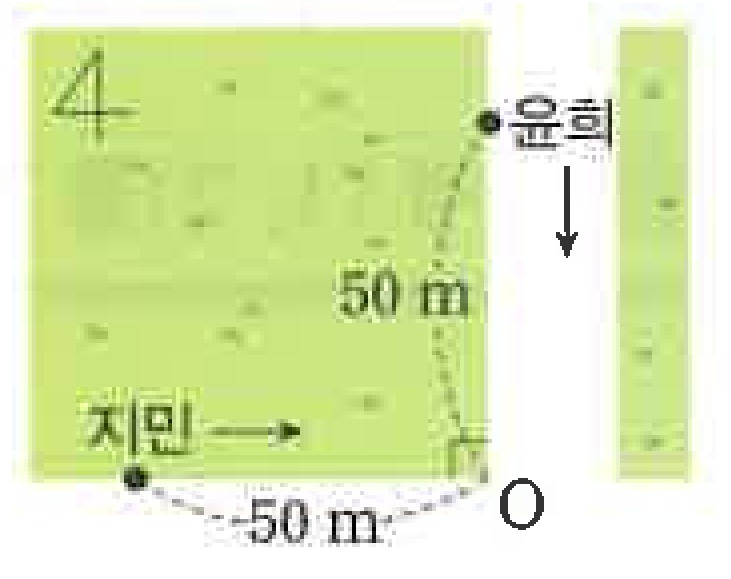
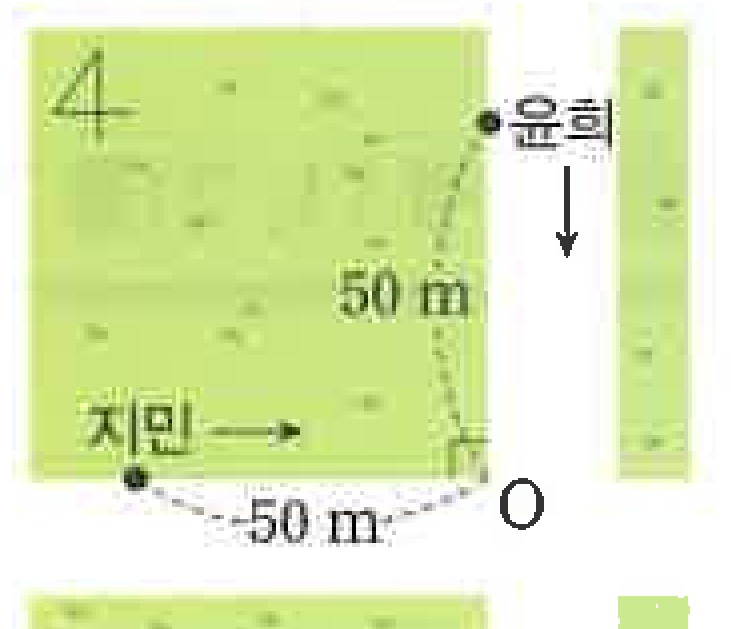
LaTeX 오답은행: 문항 번호 = 책 번호, --export 등록용 조판본 패키지, fig-19-17 라벨 원문 자리, 21-10 크롭 아래 띠 포함
- build.mjs: dmproblemcount 를 id 뒤 번호로 맞춤(book·review·export 동일), trimToInk, --export → output/problem-bank/<책>-latex(조판본 PNG 200dpi + 원본 manifest·정답·해설 이어받기), render-pages.mjs
- 오답지 인쇄에 조판본을 쓰려면 export 폴더를 교재관리 › 패키지 등록. 난이도 분류 이슈는 기록만(handoff)

Claude-Session: https://claude.ai/code/session_01NCCHwZCZB4xsBVyhYp1k4W

diff --git a/latex-bank/ssen-basic-cm2/book.tex b/latex-bank/ssen-basic-cm2/book.tex
@@ -22,136 +22,136 @@
 \setcounter{dmproblemcount}{0}
 \dmsection{개념 01 두 점 사이의 거리}
 \dmpassage{다음 두 점 사이의 거리를 구하시오.}
-\dmpnum{8-01}{\input{items/8-01}}\vspace{4mm}
-\dmpnum{8-02}{\input{items/8-02}}\vspace{4mm}
-\dmpnum{8-03}{\input{items/8-03}}\vspace{4mm}
-\dmpnum{8-04}{\input{items/8-04}}\vspace{4mm}
-\dmpnum{8-05}{\input{items/8-05}}\vspace{4mm}
-\dmpnum{8-06}{\input{items/8-06}}\vspace{4mm}
-\dmpnum{8-07}{\input{items/8-07}}\vspace{4mm}
-\dmpnum{8-08}{\input{items/8-08}}\vspace{4mm}
-\dmpnum{8-09}{\input{items/8-09}}\vspace{4mm}
-\dmpnum{8-10}{\input{items/8-10}}\vspace{4mm}
+\setcounter{dmproblemcount}{0}\dmpnum{8-01}{\input{items/8-01}}\vspace{4mm}
+\setcounter{dmproblemcount}{1}\dmpnum{8-02}{\input{items/8-02}}\vspace{4mm}
+\setcounter{dmproblemcount}{2}\dmpnum{8-03}{\input{items/8-03}}\vspace{4mm}
+\setcounter{dmproblemcount}{3}\dmpnum{8-04}{\input{items/8-04}}\vspace{4mm}
+\setcounter{dmproblemcount}{4}\dmpnum{8-05}{\input{items/8-05}}\vspace{4mm}
+\setcounter{dmproblemcount}{5}\dmpnum{8-06}{\input{items/8-06}}\vspace{4mm}
+\setcounter{dmproblemcount}{6}\dmpnum{8-07}{\input{items/8-07}}\vspace{4mm}
+\setcounter{dmproblemcount}{7}\dmpnum{8-08}{\input{items/8-08}}\vspace{4mm}
+\setcounter{dmproblemcount}{8}\dmpnum{8-09}{\input{items/8-09}}\vspace{4mm}
+\setcounter{dmproblemcount}{9}\dmpnum{8-10}{\input{items/8-10}}\vspace{4mm}
 \dmpassage{두 점~$\pt{A}$, $\pt{B}$의 좌표와 선분~$\pt{AB}$의 길이가 다음과 같을 때, 실수 $a$의 값을 모두 구하시오.}
-\dmpnum{9-11}{\input{items/9-11}}\vspace{4mm}
-\dmpnum{9-12}{\input{items/9-12}}\vspace{4mm}
-\dmpnum{9-13}{\input{items/9-13}}\vspace{4mm}
-\dmpnum{9-14}{\input{items/9-14}}\vspace{4mm}
-\dmpnum{9-15}{\input{items/9-15}}\vspace{4mm}
-\dmpnum{9-16}{\input{items/9-16}}\vspace{4mm}
-\dmpnum{9-17}{\input{items/9-17}}\vspace{4mm}
+\setcounter{dmproblemcount}{10}\dmpnum{9-11}{\input{items/9-11}}\vspace{4mm}
+\setcounter{dmproblemcount}{11}\dmpnum{9-12}{\input{items/9-12}}\vspace{4mm}
+\setcounter{dmproblemcount}{12}\dmpnum{9-13}{\input{items/9-13}}\vspace{4mm}
+\setcounter{dmproblemcount}{13}\dmpnum{9-14}{\input{items/9-14}}\vspace{4mm}
+\setcounter{dmproblemcount}{14}\dmpnum{9-15}{\input{items/9-15}}\vspace{4mm}
+\setcounter{dmproblemcount}{15}\dmpnum{9-16}{\input{items/9-16}}\vspace{4mm}
+\setcounter{dmproblemcount}{16}\dmpnum{9-17}{\input{items/9-17}}\vspace{4mm}
 \dmpassage{다음 두 점~$\pt{A}$, $\pt{B}$에서 같은 거리에 있는 $x$축 위의 점의 좌표를 구하시오.}
-\dmpnum{9-18}{\input{items/9-18}}\vspace{4mm}
-\dmpnum{9-19}{\input{items/9-19}}\vspace{4mm}
-\dmpnum{9-20}{\input{items/9-20}}\vspace{4mm}
+\setcounter{dmproblemcount}{17}\dmpnum{9-18}{\input{items/9-18}}\vspace{4mm}
+\setcounter{dmproblemcount}{18}\dmpnum{9-19}{\input{items/9-19}}\vspace{4mm}
+\setcounter{dmproblemcount}{19}\dmpnum{9-20}{\input{items/9-20}}\vspace{4mm}
 \dmpassage{다음 두 점~$\pt{A}$, $\pt{B}$에서 같은 거리에 있는 $y$축 위의 점의 좌표를 구하시오.}
-\dmpnum{9-21}{\input{items/9-21}}\vspace{4mm}
-\dmpnum{9-22}{\input{items/9-22}}\vspace{4mm}
-\dmpnum{9-23}{\input{items/9-23}}\vspace{4mm}
+\setcounter{dmproblemcount}{20}\dmpnum{9-21}{\input{items/9-21}}\vspace{4mm}
+\setcounter{dmproblemcount}{21}\dmpnum{9-22}{\input{items/9-22}}\vspace{4mm}
+\setcounter{dmproblemcount}{22}\dmpnum{9-23}{\input{items/9-23}}\vspace{4mm}
 \dmsection{유형 001 두 점 사이의 거리}
-\dmpnum{10-01}{\input{items/10-01}}\vspace{4mm}
-\dmpnum{10-02}{\input{items/10-02}}\vspace{4mm}
-\dmpnum{10-03}{\input{items/10-03}}\vspace{4mm}
-\dmpnum{10-04}{\input{items/10-04}}\vspace{4mm}
-\dmpnum{10-05}{\input{items/10-05}}\vspace{4mm}
+\setcounter{dmproblemcount}{0}\dmpnum{10-01}{\input{items/10-01}}\vspace{4mm}
+\setcounter{dmproblemcount}{1}\dmpnum{10-02}{\input{items/10-02}}\vspace{4mm}
+\setcounter{dmproblemcount}{2}\dmpnum{10-03}{\input{items/10-03}}\vspace{4mm}
+\setcounter{dmproblemcount}{3}\dmpnum{10-04}{\input{items/10-04}}\vspace{4mm}
+\setcounter{dmproblemcount}{4}\dmpnum{10-05}{\input{items/10-05}}\vspace{4mm}
 \dmsection{유형 002 같은 거리에 있는 점}
-\dmpnum{10-06}{\input{items/10-06}}\vspace{4mm}
-\dmpnum{11-07}{\input{items/11-07}}\vspace{4mm}
-\dmpnum{11-08}{\input{items/11-08}}\vspace{4mm}
-\dmpnum{11-09}{\input{items/11-09}}\vspace{4mm}
-\dmpnum{11-10}{\input{items/11-10}}\vspace{4mm}
-\dmpnum{11-11}{\input{items/11-11}}\vspace{4mm}
+\setcounter{dmproblemcount}{5}\dmpnum{10-06}{\input{items/10-06}}\vspace{4mm}
+\setcounter{dmproblemcount}{6}\dmpnum{11-07}{\input{items/11-07}}\vspace{4mm}
+\setcounter{dmproblemcount}{7}\dmpnum{11-08}{\input{items/11-08}}\vspace{4mm}
+\setcounter{dmproblemcount}{8}\dmpnum{11-09}{\input{items/11-09}}\vspace{4mm}
+\setcounter{dmproblemcount}{9}\dmpnum{11-10}{\input{items/11-10}}\vspace{4mm}
+\setcounter{dmproblemcount}{10}\dmpnum{11-11}{\input{items/11-11}}\vspace{4mm}
 \dmsection{유형 003 두 점 사이의 거리와 삼각형}
-\dmpnum{11-12}{\input{items/11-12}}\vspace{4mm}
-\dmpnum{12-13}{\input{items/12-13}}\vspace{4mm}
-\dmpnum{12-14}{\input{items/12-14}}\vspace{4mm}
-\dmpnum{12-15}{\input{items/12-15}}\vspace{4mm}
+\setcounter{dmproblemcount}{11}\dmpnum{11-12}{\input{items/11-12}}\vspace{4mm}
+\setcounter{dmproblemcount}{12}\dmpnum{12-13}{\input{items/12-13}}\vspace{4mm}
+\setcounter{dmproblemcount}{13}\dmpnum{12-14}{\input{items/12-14}}\vspace{4mm}
+\setcounter{dmproblemcount}{14}\dmpnum{12-15}{\input{items/12-15}}\vspace{4mm}
 \dmsection{유형 004 선분의 길이의 제곱의 합의 최솟값}
-\dmpnum{12-16}{\input{items/12-16}}\vspace{4mm}
-\dmpnum{12-17}{\input{items/12-17}}\vspace{4mm}
-\dmpnum{12-18}{\input{items/12-18}}\vspace{4mm}
+\setcounter{dmproblemcount}{15}\dmpnum{12-16}{\input{items/12-16}}\vspace{4mm}
+\setcounter{dmproblemcount}{16}\dmpnum{12-17}{\input{items/12-17}}\vspace{4mm}
+\setcounter{dmproblemcount}{17}\dmpnum{12-18}{\input{items/12-18}}\vspace{4mm}
 \dmsection{개념 02 수직선 위의 선분의 내분점}
 \dmpassage{다음 수직선 위의 점에 대하여 $\blank$ 안에 알맞은 것을 써넣으시오.}
 \begin{center}\input{figures/fig-numberline-13}\end{center}
-\dmpnum{13-01}{\input{items/13-01}}\vspace{4mm}
-\dmpnum{13-02}{\input{items/13-02}}\vspace{4mm}
-\dmpnum{13-03}{\input{items/13-03}}\vspace{4mm}
-\dmpnum{13-04}{\input{items/13-04}}\vspace{4mm}
+\setcounter{dmproblemcount}{0}\dmpnum{13-01}{\input{items/13-01}}\vspace{4mm}
+\setcounter{dmproblemcount}{1}\dmpnum{13-02}{\input{items/13-02}}\vspace{4mm}
+\setcounter{dmproblemcount}{2}\dmpnum{13-03}{\input{items/13-03}}\vspace{4mm}
+\setcounter{dmproblemcount}{3}\dmpnum{13-04}{\input{items/13-04}}\vspace{4mm}
 \dmpassage{두 점~$\pt{A}$, $\pt{B}$를 잇는 선분~$\pt{AB}$를 주어진 비로 내분하는 점~$\pt{P}$의 좌표를 구하시오.}
-\dmpnum{13-05}{\input{items/13-05}}\vspace{4mm}
-\dmpnum{13-06}{\input{items/13-06}}\vspace{4mm}
-\dmpnum{13-07}{\input{items/13-07}}\vspace{4mm}
-\dmpnum{13-08}{\input{items/13-08}}\vspace{4mm}
-\dmpnum{13-09}{\input{items/13-09}}\vspace{4mm}
+\setcounter{dmproblemcount}{4}\dmpnum{13-05}{\input{items/13-05}}\vspace{4mm}
+\setcounter{dmproblemcount}{5}\dmpnum{13-06}{\input{items/13-06}}\vspace{4mm}
+\setcounter{dmproblemcount}{6}\dmpnum{13-07}{\input{items/13-07}}\vspace{4mm}
+\setcounter{dmproblemcount}{7}\dmpnum{13-08}{\input{items/13-08}}\vspace{4mm}
+\setcounter{dmproblemcount}{8}\dmpnum{13-09}{\input{items/13-09}}\vspace{4mm}
 \dmsection{개념 03 좌표평면 위의 선분의 내분점}
 \dmpassage{두 점~$\pt{A}$, $\pt{B}$를 잇는 선분~$\pt{AB}$를 주어진 비로 내분하는 점~$\pt{P}$의 좌표를 구하시오.}
-\dmpnum{14-10}{\input{items/14-10}}\vspace{4mm}
-\dmpnum{14-11}{\input{items/14-11}}\vspace{4mm}
-\dmpnum{14-12}{\input{items/14-12}}\vspace{4mm}
-\dmpnum{14-13}{\input{items/14-13}}\vspace{4mm}
-\dmpnum{14-14}{\input{items/14-14}}\vspace{4mm}
+\setcounter{dmproblemcount}{9}\dmpnum{14-10}{\input{items/14-10}}\vspace{4mm}
+\setcounter{dmproblemcount}{10}\dmpnum{14-11}{\input{items/14-11}}\vspace{4mm}
+\setcounter{dmproblemcount}{11}\dmpnum{14-12}{\input{items/14-12}}\vspace{4mm}
+\setcounter{dmproblemcount}{12}\dmpnum{14-13}{\input{items/14-13}}\vspace{4mm}
+\setcounter{dmproblemcount}{13}\dmpnum{14-14}{\input{items/14-14}}\vspace{4mm}
 \dmpassage{다음을 만족시키는 $a$, $b$의 값을 구하시오.}
-\dmpnum{14-15}{\input{items/14-15}}\vspace{4mm}
-\dmpnum{14-16}{\input{items/14-16}}\vspace{4mm}
-\dmpnum{14-17}{\input{items/14-17}}\vspace{4mm}
+\setcounter{dmproblemcount}{14}\dmpnum{14-15}{\input{items/14-15}}\vspace{4mm}
+\setcounter{dmproblemcount}{15}\dmpnum{14-16}{\input{items/14-16}}\vspace{4mm}
+\setcounter{dmproblemcount}{16}\dmpnum{14-17}{\input{items/14-17}}\vspace{4mm}
 \dmsection{개념 04 삼각형의 무게중심}
 \dmpassage{다음 세 점~$\pt{A}$, $\pt{B}$, $\pt{C}$를 꼭짓점으로 하는 삼각형~$\pt{ABC}$의 무게중심 $\pt{G}$의 좌표를 구하시오.}
-\dmpnum{15-18}{\input{items/15-18}}\vspace{4mm}
-\dmpnum{15-19}{\input{items/15-19}}\vspace{4mm}
-\dmpnum{15-20}{\input{items/15-20}}\vspace{4mm}
-\dmpnum{15-21}{\input{items/15-21}}\vspace{4mm}
-\dmpnum{15-22}{\input{items/15-22}}\vspace{4mm}
+\setcounter{dmproblemcount}{17}\dmpnum{15-18}{\input{items/15-18}}\vspace{4mm}
+\setcounter{dmproblemcount}{18}\dmpnum{15-19}{\input{items/15-19}}\vspace{4mm}
+\setcounter{dmproblemcount}{19}\dmpnum{15-20}{\input{items/15-20}}\vspace{4mm}
+\setcounter{dmproblemcount}{20}\dmpnum{15-21}{\input{items/15-21}}\vspace{4mm}
+\setcounter{dmproblemcount}{21}\dmpnum{15-22}{\input{items/15-22}}\vspace{4mm}
 \dmpassage{다음 세 점~$\pt{A}$, $\pt{B}$, $\pt{C}$를 꼭짓점으로 하는 삼각형~$\pt{ABC}$의 무게중심이 $\pt{G}$일 때, $a$, $b$의 값을 구하시오.}
-\dmpnum{15-23}{\input{items/15-23}}\vspace{4mm}
-\dmpnum{15-24}{\input{items/15-24}}\vspace{4mm}
-\dmpnum{15-25}{\input{items/15-25}}\vspace{4mm}
+\setcounter{dmproblemcount}{22}\dmpnum{15-23}{\input{items/15-23}}\vspace{4mm}
+\setcounter{dmproblemcount}{23}\dmpnum{15-24}{\input{items/15-24}}\vspace{4mm}
+\setcounter{dmproblemcount}{24}\dmpnum{15-25}{\input{items/15-25}}\vspace{4mm}
 \dmsection{개념 05 중점의 사각형에의 활용}
 \dmpassage{다음 네 점~$\pt{A}$, $\pt{B}$, $\pt{C}$, $\pt{D}$를 꼭짓점으로 하는 사각형~$\pt{ABCD}$가 평행사변형일 때, $a$, $b$의 값을 구하시오.}
-\dmpnum{16-26}{\input{items/16-26}}\vspace{4mm}
-\dmpnum{16-27}{\input{items/16-27}}\vspace{4mm}
-\dmpnum{16-28}{\input{items/16-28}}\vspace{4mm}
+\setcounter{dmproblemcount}{25}\dmpnum{16-26}{\input{items/16-26}}\vspace{4mm}
+\setcounter{dmproblemcount}{26}\dmpnum{16-27}{\input{items/16-27}}\vspace{4mm}
+\setcounter{dmproblemcount}{27}\dmpnum{16-28}{\input{items/16-28}}\vspace{4mm}
 \dmpassage{다음 네 점~$\pt{A}$, $\pt{B}$, $\pt{C}$, $\pt{D}$를 꼭짓점으로 하는 사각형~$\pt{ABCD}$가 마름모일 때, $a$, $b$의 값을 구하시오.}
-\dmpnum{16-29}{\input{items/16-29}}\vspace{4mm}
-\dmpnum{16-30}{\input{items/16-30}}\vspace{4mm}
-\dmpnum{16-31}{\input{items/16-31}}\vspace{4mm}
+\setcounter{dmproblemcount}{28}\dmpnum{16-29}{\input{items/16-29}}\vspace{4mm}
+\setcounter{dmproblemcount}{29}\dmpnum{16-30}{\input{items/16-30}}\vspace{4mm}
+\setcounter{dmproblemcount}{30}\dmpnum{16-31}{\input{items/16-31}}\vspace{4mm}
 \dmsection{유형 005 수직선 위의 선분의 내분점}
-\dmpnum{17-01}{\input{items/17-01}}\vspace{4mm}
-\dmpnum{17-02}{\input{items/17-02}}\vspace{4mm}
-\dmpnum{17-03}{\input{items/17-03}}\vspace{4mm}
+\setcounter{dmproblemcount}{0}\dmpnum{17-01}{\input{items/17-01}}\vspace{4mm}
+\setcounter{dmproblemcount}{1}\dmpnum{17-02}{\input{items/17-02}}\vspace{4mm}
+\setcounter{dmproblemcount}{2}\dmpnum{17-03}{\input{items/17-03}}\vspace{4mm}
 \dmsection{유형 006 좌표평면 위의 선분의 내분점}
-\dmpnum{17-04}{\input{items/17-04}}\vspace{4mm}
-\dmpnum{17-05}{\input{items/17-05}}\vspace{4mm}
-\dmpnum{17-06}{\input{items/17-06}}\vspace{4mm}
-\dmpnum{18-07}{\input{items/18-07}}\vspace{4mm}
-\dmpnum{18-08}{\input{items/18-08}}\vspace{4mm}
-\dmpnum{18-09}{\input{items/18-09}}\vspace{4mm}
+\setcounter{dmproblemcount}{3}\dmpnum{17-04}{\input{items/17-04}}\vspace{4mm}
+\setcounter{dmproblemcount}{4}\dmpnum{17-05}{\input{items/17-05}}\vspace{4mm}
+\setcounter{dmproblemcount}{5}\dmpnum{17-06}{\input{items/17-06}}\vspace{4mm}
+\setcounter{dmproblemcount}{6}\dmpnum{18-07}{\input{items/18-07}}\vspace{4mm}
+\setcounter{dmproblemcount}{7}\dmpnum{18-08}{\input{items/18-08}}\vspace{4mm}
+\setcounter{dmproblemcount}{8}\dmpnum{18-09}{\input{items/18-09}}\vspace{4mm}
 \dmsection{유형 007 삼각형의 무게중심}
-\dmpnum{18-10}{\input{items/18-10}}\vspace{4mm}
-\dmpnum{18-11}{\input{items/18-11}}\vspace{4mm}
-\dmpnum{18-12}{\input{items/18-12}}\vspace{4mm}
-\dmpnum{19-13}{\input{items/19-13}}\vspace{4mm}
+\setcounter{dmproblemcount}{9}\dmpnum{18-10}{\input{items/18-10}}\vspace{4mm}
+\setcounter{dmproblemcount}{10}\dmpnum{18-11}{\input{items/18-11}}\vspace{4mm}
+\setcounter{dmproblemcount}{11}\dmpnum{18-12}{\input{items/18-12}}\vspace{4mm}
+\setcounter{dmproblemcount}{12}\dmpnum{19-13}{\input{items/19-13}}\vspace{4mm}
 \dmsection{유형 008 중점의 사각형에의 활용}
-\dmpnum{19-14}{\input{items/19-14}}\vspace{4mm}
-\dmpnum{19-15}{\input{items/19-15}}\vspace{4mm}
-\dmpnum{19-16}{\input{items/19-16}}\vspace{4mm}
+\setcounter{dmproblemcount}{13}\dmpnum{19-14}{\input{items/19-14}}\vspace{4mm}
+\setcounter{dmproblemcount}{14}\dmpnum{19-15}{\input{items/19-15}}\vspace{4mm}
+\setcounter{dmproblemcount}{15}\dmpnum{19-16}{\input{items/19-16}}\vspace{4mm}
 \dmsection{유형 009 각의 이등분선의 성질}
-\dmpnum{19-17}{\input{items/19-17}}\vspace{4mm}
-\dmpnum{19-18}{\input{items/19-18}}\vspace{4mm}
+\setcounter{dmproblemcount}{16}\dmpnum{19-17}{\input{items/19-17}}\vspace{4mm}
+\setcounter{dmproblemcount}{17}\dmpnum{19-18}{\input{items/19-18}}\vspace{4mm}
 \dmsection{실전 감각 UP}
-\dmpnum{20-01}{\input{items/20-01}}\vspace{4mm}
-\dmpnum{20-02}{\input{items/20-02}}\vspace{4mm}
-\dmpnum{20-03}{\input{items/20-03}}\vspace{4mm}
-\dmpnum{20-04}{\input{items/20-04}}\vspace{4mm}
-\dmpnum{20-05}{\input{items/20-05}}\vspace{4mm}
-\dmpnum{20-06}{\input{items/20-06}}\vspace{4mm}
-\dmpnum{20-07}{\input{items/20-07}}\vspace{4mm}
-\dmpnum{21-08}{\input{items/21-08}}\vspace{4mm}
-\dmpnum{21-09}{\input{items/21-09}}\vspace{4mm}
-\dmpnum{21-10}{\input{items/21-10}}\vspace{4mm}
-\dmpnum{21-11}{\input{items/21-11}}\vspace{4mm}
-\dmpnum{21-12}{\input{items/21-12}}\vspace{4mm}
-\dmpnum{21-13}{\input{items/21-13}}\vspace{4mm}
-\dmpnum{21-14}{\input{items/21-14}}\vspace{4mm}
+\setcounter{dmproblemcount}{0}\dmpnum{20-01}{\input{items/20-01}}\vspace{4mm}
+\setcounter{dmproblemcount}{1}\dmpnum{20-02}{\input{items/20-02}}\vspace{4mm}
+\setcounter{dmproblemcount}{2}\dmpnum{20-03}{\input{items/20-03}}\vspace{4mm}
+\setcounter{dmproblemcount}{3}\dmpnum{20-04}{\input{items/20-04}}\vspace{4mm}
+\setcounter{dmproblemcount}{4}\dmpnum{20-05}{\input{items/20-05}}\vspace{4mm}
+\setcounter{dmproblemcount}{5}\dmpnum{20-06}{\input{items/20-06}}\vspace{4mm}
+\setcounter{dmproblemcount}{6}\dmpnum{20-07}{\input{items/20-07}}\vspace{4mm}
+\setcounter{dmproblemcount}{7}\dmpnum{21-08}{\input{items/21-08}}\vspace{4mm}
+\setcounter{dmproblemcount}{8}\dmpnum{21-09}{\input{items/21-09}}\vspace{4mm}
+\setcounter{dmproblemcount}{9}\dmpnum{21-10}{\input{items/21-10}}\vspace{4mm}
+\setcounter{dmproblemcount}{10}\dmpnum{21-11}{\input{items/21-11}}\vspace{4mm}
+\setcounter{dmproblemcount}{11}\dmpnum{21-12}{\input{items/21-12}}\vspace{4mm}
+\setcounter{dmproblemcount}{12}\dmpnum{21-13}{\input{items/21-13}}\vspace{4mm}
+\setcounter{dmproblemcount}{13}\dmpnum{21-14}{\input{items/21-14}}\vspace{4mm}
 \vspace*{0pt plus 1filll}
 \clearpage
 \dmsection{정답}

diff --git a/latex-bank/ssen-basic-cm2/figures/fig-19-17.tex b/latex-bank/ssen-basic-cm2/figures/fig-19-17.tex
@@ -1,5 +1,5 @@
 % 유형 009 19-17(본책 19쪽) — 삼각형 ABC 와 ∠A 의 이등분선의 발 D. 원문 그림을 TikZ 로 다시 그림(스캔 화질).
-% 2026-09-15 검수: C 라벨·y축 2 라벨 겹침 → C 는 위오른쪽, 축 라벨 2 는 아래오른쪽. ∠A 이등분 표시(호 2개) 추가.
+% 2026-09-15 검수: C 라벨·y축 2 라벨 겹침 → C 는 점 오른쪽 그대로, 축 라벨 2 를 C 아래로. ∠A 이등분 표시(호 2개) 추가.
 % 점 크기: 정점 2.2pt · 파생점 2pt (프로토타입 feedback_figure_point_size_rule). 좌표 안내는 파선.
 \begin{tikzpicture}[scale=0.55, line width=0.5pt]
   \draw[->, >=stealth, line width=0.7pt] (-5.2,0) -- (1.6,0) node[below] {$x$};
@@ -13,12 +13,13 @@
   \draw[line width=0.4pt] ([shift=(A)]-116.6:0.5) arc (-116.6:-71.6:0.5);
   \draw[line width=0.4pt] ([shift=(A)]-71.6:0.62) arc (-71.6:-26.6:0.62);
   \fill (A) circle (2.2pt); \fill (B) circle (2.2pt); \fill (C) circle (2.2pt); \fill (D) circle (2pt);
+  % 라벨 자리는 원문과 같게: A 위, B 아래왼쪽, C 는 점 오른쪽, D 아래오른쪽, 축 숫자 3·2·−1 은 축 오른쪽(2 는 C 와 안 겹치게 조금 아래)
   \node[above, font=\small] at (A) {$\mathrm{A}$};
   \node[below left, font=\small] at (B) {$\mathrm{B}$};
-  \node[above right=1pt and 1pt, font=\small] at (C) {$\mathrm{C}$};
+  \node[right, font=\small] at (C) {$\mathrm{C}$};
   \node[below right=1pt and -1pt, font=\small] at (D) {$\mathrm{D}$};
   \node[right, font=\small] at (0,3) {$3$};
-  \node[below right=1pt and 1pt, font=\small] at (0,2) {$2$};
+  \node[below right=4pt and 0pt, font=\small] at (0,2) {$2$};
   \node[right, font=\small] at (0,-1) {$-1$};
   \node[below, font=\small] at (-2,0) {$-2$};
   \node[above left=-1pt and -2pt, font=\small] at (-4,0) {$-4$};

diff --git a/latex-bank/README.md b/latex-bank/README.md
@@ -24,6 +24,8 @@ latex-bank/
   → AI 가 크롭을 읽고 items.json 전사(세션 안 비전 · 별도 API 비용 없음)
   → node scripts/latex-bank/build.mjs --bank latex-bank/<책> --review   (xelatex 2회 · review/*.png)
   → 사람이 review/ 를 보고 items.json 을 고쳐 확정 (variant_level 0 확정본)
+  → node scripts/latex-bank/build.mjs --bank latex-bank/<책> --export   (output/problem-bank/<책>-latex = 등록용 패키지)
+  → 교재관리 › 패키지 등록에 그 폴더를 올리면 오답지·오답은행에 조판본 문항이 나온다(정답·해설은 원본 패키지 것을 그대로 이어받음)
   → 숫자 변형(level 1) · 자유 변형(level 2)은 확정본을 원본으로 별도 항목으로 추가(id 에 -v1·-v2)
 ```
 
@@ -32,7 +34,7 @@ latex-bank/
 - 공통 지시문(개념 쪽 말풍선 줄)은 `groups[].passage` 로 한 번만 두고 그 묶음 위에 굵게 찍는다. 힌트 빈칸형(◎ 줄)은 `hint` 로 문항 아래 연한 상자에 넣는다. 빈칸은 `\blank`.
 - 선택지는 dm-editorial 의 `choices32`(3-2) · `choicesii`(2-2-1) · `choicesv`(세로) 를 쓴다(`choices_layout`). 분수 좌표처럼 키 큰 보기는 `ii`.
 - 줄바꿈 규약(프로토타입 `mathbook-problems.sty`·`style.sty` 와 같음 · build.mjs 머리말에 정의): 수식 안에서는 줄을 안 바꾼다(`\binoppenalty=\relpenalty=10000`), 「(단, …)」은 `\cond{…}`, 「점 P」처럼 명사와 기호 사이는 `점~$\pt{P}$`(`~` = 안 끊는 공백), 그 밖의 덩어리는 `\nob{…}`. 그림이 있는 문항은 원문처럼 본문 오른쪽에 그림을 둔다(`figure` 가 있으면 본문 0.58 · 그림 0.4 폭).
-- review/ 의 문항 번호는 book.pdf 와 같다(책 순서 카운터). 출처 배지의 「12쪽 13번」이 책 번호다.
+- 문항 번호는 책에 찍힌 번호 그대로다(id 의 뒤 두 자리 · 쪽마다 다시 시작 · 예 19-17 → 「17.」). book.pdf·review·export 모두 같다.
 
 ## 그림 규칙 (사용자 결정 2026-09-14)
 
@@ -47,7 +49,7 @@ latex-bank/
 | 13-01~13-04 (공통 지시문) | 수직선 −4~4 · A P B Q C | TikZ | `figures/fig-numberline-13.tex` | 스캔 화질 낮음 · 단순 수직선 |
 | 17-01 | 등간격 8점 A~H 수직선 | TikZ | `figures/fig-numberline-17-01.tex` | 위와 같음 |
 | 19-17 | 좌표평면 삼각형 ABC · 이등분선 발 D · 좌표 안내 파선 | TikZ | `figures/fig-19-17.tex` | 좌표가 모두 주어져 정밀 재현 가능 |
-| 21-10 | 지도 삽화(도로·윤희·지민·50 m) | **크롭**(600 dpi · 731×579px) | `figures/fig-21-10.jpg` | 실생활 삽화라 원문 그림을 그대로 쓰기로 함(사용자 결정 2026-09-15). TikZ 도식 `fig-21-10.tex` 는 대체본으로 남김 · 크롭 스크립트 `검수/2026-09-15/scripts/crop-2110.mjs` |
+| 21-10 | 지도 삽화(도로·윤희·지민·50 m) | **크롭**(600 dpi · 731×629px · 아래 띠 포함) | `figures/fig-21-10.jpg` | 실생활 삽화라 원문 그림을 그대로 쓰기로 함(사용자 결정 2026-09-15). TikZ 도식 `fig-21-10.tex` 는 대체본으로 남김 · 크롭 스크립트 `검수/2026-09-15/scripts/crop-2110.mjs` |
 
 ## 검수 (검수 에이전트)
 

diff --git a/docs/STATUS.md b/docs/STATUS.md
@@ -4,7 +4,7 @@
 
 - `scripts/problem-bank/ingest-scan-badges.mjs`(번호 배지형 스캔 책 · 「인쇄쪽-번호」 id) + `ingest-scan-answers.mjs --layout ssen`(별책 답지). 1단원(본책 2~15쪽): 문항 104 · 해설 95/104 · 답 줄 81 · 번호 불일치 3. 패키지마다 `검수-필요.md` 가 생겨 문항 = 해설 = 답 개수 차이와 사람이 먼저 볼 쪽·번호를 정리한다(올림포스 공통수학1: 해설 못 찾음 16 · 불일치 2, 베이직쎈: 못 찾음 9 · 불일치 3).
 - LaTeX 오답은행(`latex-bank/`, `scripts/latex-bank/build.mjs`): 스캔 화질이 낮은 책을 문항 단위로 다시 조판. 프로토타입 `dm-editorial.sty` 그대로, MiKTeX xelatex(무료·비전 API 0). 베이직쎈 1단원 104문 전사 → `items.json`(원천) → book.pdf 11쪽(Overfull 0) + review/ 104장(원본 크롭 ↔ 조판본). 그림 4개는 전부 TikZ(까닭 `latex-bank/README.md` 표에 기록 · 크롭 사용 0).
-- 검수 에이전트(2026-09-15, 프로토타입 problem-review 4축): 수학·전사 104/104 통과. 반영: fig-19-17 라벨 겹침·이등분 호, 21-10 은 원문 삽화 600 dpi 크롭(사용자 결정), 줄바꿈 규약(`\cond`·`~`·수식 내 줄바꿈 금지 · 프로토타입 style.sty 와 동일), 그림 오른쪽 배치, 고아 제목 방지, review 번호 = 책 순서. 정독 자산: YAML 인용 보정 · `type_id`/카탈로그 `base_star`/`effective_star` 기록 · M_a 17문 · 통찰 라벨 9문 · ★ 5문(쎈 앵커 정합, ★1 46/★2 41/★3 17). 보고서 `latex-bank/ssen-basic-cm2/검수/2026-09-15/`.
+- 검수 에이전트(2026-09-15, 프로토타입 problem-review 4축): 수학·전사 104/104 통과. 반영: fig-19-17 라벨 겹침·이등분 호, 21-10 은 원문 삽화 600 dpi 크롭(사용자 결정), 줄바꿈 규약(`\cond`·`~`·수식 내 줄바꿈 금지 · 프로토타입 style.sty 와 동일), 그림 오른쪽 배치, 고아 제목 방지, review 번호 = 책 순서. 정독 자산: YAML 인용 보정 · `type_id`/카탈로그 `base_star`/`effective_star` 기록 · M_a 17문 · 통찰 라벨 9문 · ★ 5문(쎈 앵커 정합, ★1 46/★2 41/★3 17). 보고서 `latex-bank/ssen-basic-cm2/검수/2026-09-15/`. 이어서 build.mjs `--export`: 조판본 PNG(200 dpi · 책 번호 「17.」) + 원본 패키지의 정답·해설을 이어받은 등록용 패키지(`output/problem-bank/ssen-basic-cm2-latex`, 바탕화면 `…-라텍스-패키지`) — 등록하면 오답지에 조판본이 나온다. 난이도 분류 이슈는 기록만(사용자 결정).
 - 정독 자산 `latex-bank/ssen-basic-cm2/정독/…평면좌표.md`(스키마 v2.0 · 104문). **사람 Gate**: 바탕화면 `문제은행-패키지\베이직쎈-공통수학2-1단원-라텍스
 eview` 로 전사 확정, `answer_source` 「계산」 15문의 답을 답지와 대조, 두 패키지의 `검수-필요.md`. 풀이 전사·숫자 변형·2단원 이후·전권 단원 경계(`--unit-pages`)는 다음 작업.
 

diff --git a/docs/next-session/DAILY_HANDOFF.md b/docs/next-session/DAILY_HANDOFF.md
@@ -2,7 +2,7 @@
 
 ## 2026-09-15 베이직쎈 1단원 검수 반영
 
-- 검수 에이전트 4축 결과·반영 내역: `latex-bank/ssen-basic-cm2/검수/2026-09-15/00-검수-요약.md`(바탕화면 `…-라텍스\검수-2026-09-15` 에도). 사람이 볼 것: ① ★ 라벨을 올린 5문(11-10·20-02·19-18·21-09·19-15 → ★3)과 통찰 라벨 바꾼 9문이 본인 기준에 맞는지(정독 md 각 블록 `[검수 2026-09-15]` 줄) ② 21-10 크롭 그림 화질 ③ 남은 것: 22문 정도 대상층(target_cohort) 재검토는 안 함.
+- 검수 에이전트 4축 결과·반영 내역: `latex-bank/ssen-basic-cm2/검수/2026-09-15/00-검수-요약.md`(바탕화면 `…-라텍스\검수-2026-09-15` 에도). 사람이 볼 것: ① ★ 라벨을 올린 5문(11-10·20-02·19-18·21-09·19-15 → ★3)과 통찰 라벨 바꾼 9문이 본인 기준에 맞는지(정독 md 각 블록 `[검수 2026-09-15]` 줄) ② 21-10 크롭 그림 화질 ③ 난이도(★·통찰 라벨·대상층) 분류 문제는 **기록만** 하고 당장은 손대지 않는다(사용자 결정 2026-09-15 — 목표는 LaTeX 조판 + 오답은행). 오답지에 조판본을 쓰려면 바탕화면 `문제은행-패키지\베이직쎈-공통수학2-1단원-라텍스-패키지`(build.mjs --export 결과)를 교재관리 › 패키지 등록에 올린다.
 
 ## 2026-09-14 베이직쎈 1단원 · LaTeX 조판 · 정독
 
